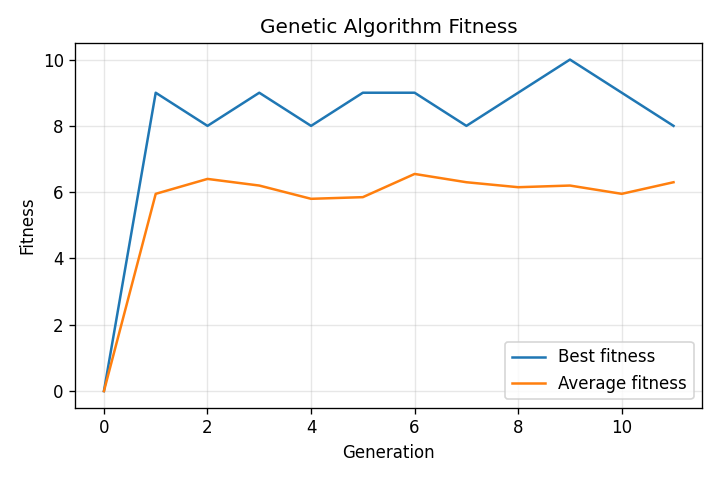
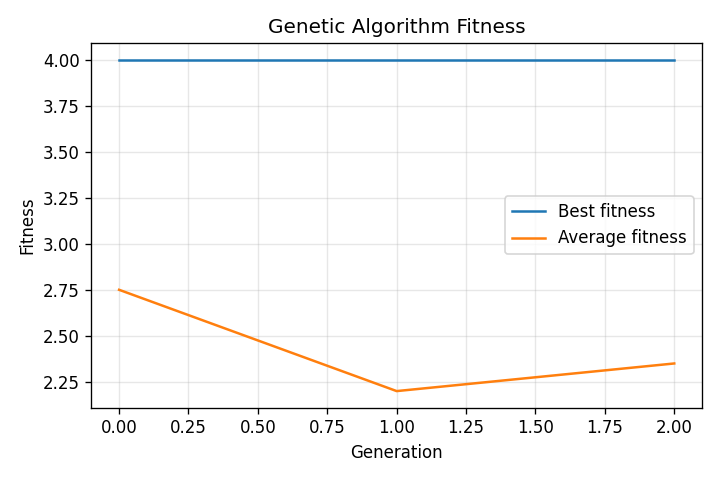
Final touches

diff --git a/src/AI/GeneticAlgo.py b/src/AI/GeneticAlgo.py
@@ -79,8 +79,8 @@ def miniMax(gameState, depth, alpha, beta, me, util_fn):
         moves.sort(key=lambda move: rootEval(
             getNextStateAdversarial(gameState, move), me, util_fn))
     
-    # Limit to top 12 moves for better performance
-    moves = moves[:12]
+    # Limit to top 10 moves for better performance (would like to do more, but it's slow to train otherwise. Oh well)
+    moves = moves[:10]
     
     # If it's my turn, we want to maximize our score
     if gameState.whoseTurn == me:
@@ -101,6 +101,7 @@ def miniMax(gameState, depth, alpha, beta, me, util_fn):
             if beta <= alpha:
                 break
         
+        # Return random move from best moves
         move = random.choice(bestMoves) if bestMoves else None
         return bestValue, move
     # If it's the enemy's turn, we want to minimize our score
@@ -154,12 +155,11 @@ class AIPlayer(Player):
         self.genePop = []
         self.nextGene = 0
         self.fitness = []
-        self.evalCounts = []
-        self.populationSize = 20
+        self.evalCounts = [] # number of games evaluated for each gene
+        self.populationSize = 50
         self.evalGames = 10
         self.populationFile = os.path.join(os.path.dirname(__file__), '..', 'vo27_krasnogo27_population.txt')
         self.featureCount = 17
-        self.mutationRate = 0.05 # 5 chance of mutation (may change we'll see) 
         # Fitness tracking/plotting
         self.fitnessBestHistory = []
         self.fitnessAvgHistory = []
@@ -301,8 +301,8 @@ class AIPlayer(Player):
     def initializePopulation(self):
         # load the population from the file if it exists
         loaded = []
-        # try to load the population from the file
-        try:
+        # try to load the population from the file, if it fails, regenerate the population
+        try: 
             if os.path.exists(self.populationFile):
                 with open(self.populationFile, "r") as f:
                     # read the file line by line
@@ -321,18 +321,22 @@ class AIPlayer(Player):
                             except Exception:
                                 ok = False
                                 break
+                        # if the values are valid and the length is correct, add to the loaded list
                         if ok and len(vals) == self.featureCount:
                             loaded.append(vals)
-            # Normalize to exact population size
+            
+            # Make sure we have the correct number of genes
             if len(loaded) < self.populationSize:
-                # fill shortfall with new random genes
+                # fill shortfall, if any, with new random genes
                 for _ in range(self.populationSize - len(loaded)):
                     loaded.append([random.uniform(-10.0, 10.0) for _ in range(self.featureCount)])
             elif len(loaded) > self.populationSize:
                 loaded = loaded[:self.populationSize]
-        except Exception:
-            # On any error, regenerate full population
+        
+        except Exception: # On any error, regenerate full population
             loaded = [[random.uniform(-10.0, 10.0) for _ in range(self.featureCount)] for __ in range(self.populationSize)]
+
+        # set the population, fitness, evaluation counts, and next gene
         self.genePop = loaded
         self.fitness = [0.0 for _ in range(self.populationSize)]
         self.evalCounts = [0 for _ in range(self.populationSize)]
@@ -344,25 +348,34 @@ class AIPlayer(Player):
         #
         # saves the population of genes to the population file
         #
+        # Return: None
+        #
     def savePopulation(self):
-        # Ensure we have exactly populationSize genes
-        if len(self.genePop) < self.populationSize:
-            for _ in range(self.populationSize - len(self.genePop)):
-                self.genePop.append([random.uniform(-10.0, 10.0) for _ in range(self.featureCount)])
-        elif len(self.genePop) > self.populationSize:
-            self.genePop = self.genePop[:self.populationSize]
-        # Ensure each gene has the right dimensionality
-        normalized = []
-        for gene in self.genePop:
-            if len(gene) != self.featureCount:
-                gene = [random.uniform(-10.0, 10.0) for _ in range(self.featureCount)]
-            normalized.append([float(g) for g in gene])
-        self.genePop = normalized
         with open(self.populationFile, 'w') as f:
             for gene in self.genePop:
                 # write features to file, 6 decimal places
                 f.write(','.join(f"{float(g):.6f}" for g in gene) + '\n')
     
+
+    ##
+    # getMutationRate
+    #
+    # Gets the mutation rate for the current generation. Simple schedule: start high, then decay to ~1% after a few generations.
+    #
+    # Return: The mutation rate
+    #
+    def getMutationRate(self):
+        start = 0.05   # 5% initial
+        floor = 0.01   # 1% floor
+        g = self.generation
+        if g <= 2:      # hold at start for first couple of generations
+            return start
+        if g >= 7:      # decay to floor after a few generations
+            return floor
+        # linear decay between start and floor
+        t = (g - 2) / float(5)
+        return start + (floor - start) * t
+
     ##
     # mate
     # 
@@ -382,11 +395,12 @@ class AIPlayer(Player):
         child2 = parent2[:cut] + parent1[cut:]
 
         # mutate the children
+        rate = self.getMutationRate()
         for i in range(len(child1)):
-            if random.random() < self.mutationRate:
+            if random.random() < rate:
                 child1[i] = random.uniform(-10, 10)
         for i in range(len(child2)):
-            if random.random() < self.mutationRate:
+            if random.random() < rate:
                 child2[i] = random.uniform(-10, 10)
         
         return child1, child2
@@ -398,6 +412,7 @@ class AIPlayer(Player):
     # generates the next generation of genes and saves them to the population file
     #
     # Return: None
+    #
     def nextGeneration(self):
         # Record and plot current generation fitness before evolving
         self.appendAndPlotFitness()
@@ -448,31 +463,35 @@ class AIPlayer(Player):
         # Reset the fitness scores
         self.fitness = [0.0 for _ in range(self.populationSize)]
 
+
+    ##
+    # appendAndPlotFitness
+    #
+    # appends the best/avg fitness to the fitness history and plots it. Makes it easier to track progress.
+    #
+    # Return: None
+    #
     def appendAndPlotFitness(self):
         # append best/avg fitness and overwrite PNG plot
-        try:
-            if not self.fitness or len(self.fitness) == 0:
-                return
-            best = max(self.fitness)
-            avg = sum(self.fitness) / float(len(self.fitness))
-            self.fitnessBestHistory.append(best)
-            self.fitnessAvgHistory.append(avg)
-            self.generation = len(self.fitnessBestHistory)
+        if not self.fitness or len(self.fitness) == 0:
+            return
+        best = max(self.fitness)
+        avg = sum(self.fitness) / float(len(self.fitness))
+        self.fitnessBestHistory.append(best)
+        self.fitnessAvgHistory.append(avg)
+        self.generation = len(self.fitnessBestHistory)
 
-            plt.figure(figsize=(6, 4), dpi=120)
-            plt.plot(self.fitnessBestHistory, label='Best fitness', color='tab:blue')
-            plt.plot(self.fitnessAvgHistory, label='Average fitness', color='tab:orange')
-            plt.xlabel('Generation')
-            plt.ylabel('Fitness')
-            plt.title('Genetic Algorithm Fitness')
-            plt.legend()
-            plt.grid(True, alpha=0.3)
-            plt.tight_layout()
-            plt.savefig(self.fitnessPlotFile)
-            plt.close()
-        except Exception:
-            # ignore plotting issues to not interrupt gameplay
-            pass
+        plt.figure(figsize=(6, 4), dpi=120)
+        plt.plot(self.fitnessBestHistory, label='Best fitness', color='tab:blue')
+        plt.plot(self.fitnessAvgHistory, label='Average fitness', color='tab:orange')
+        plt.xlabel('Generation')
+        plt.ylabel('Fitness')
+        plt.title('Genetic Algorithm Fitness')
+        plt.legend()
+        plt.grid(True, alpha=0.3)
+        plt.tight_layout()
+        plt.savefig(self.fitnessPlotFile)
+        plt.close()
 
     ##
     # utility
@@ -528,7 +547,9 @@ class AIPlayer(Player):
         def avgDist(ants, target):
             if not ants or target is None:
                 return 0.0
-            return sum(approxDist(ant.coords, target) for ant in ants) / len(ants)
+            # allow target to be an Ant/Construction (has coords) or a raw (x, y) tuple
+            tgt = target.coords if hasattr(target, 'coords') else target
+            return sum(approxDist(ant.coords, tgt) for ant in ants) / len(ants)
 
         ##
         # avgDistList
@@ -553,22 +574,29 @@ class AIPlayer(Player):
         f4 = len(mySoldiers) - len(enSoldiers)                                  # my soldier count - enemy soldier count
         f5 = len(myWorkers) - len(enWorkers)                                    # my worker count - enemy worker count
         f6 = len(myRangedSoldiers) - len(enRangedSoldiers)                      # my ranged soldier count - enemy ranged soldier count
-        f7 = avgDist(myOff, enQueen if enQueen else None)                       # average distance from my offensive ants to enemy queen
+        f7 = avgDist(myOff, enQueen.coords if enQueen else None)                # average distance from my offensive ants to enemy queen
         f8 = avgDist(enOff, myQueen.coords if myQueen else None)                # average distance from enemy offensive ants to my queen
         f9 = 1 if len(myOff) > len(enOff) else 0                                # 1 if I have more offensive ants than my opponent, 0 if I don't
         f10 = avgDist(myOff, enHill if enHill else None)                        # average distance from my offensive ants to enemy anthill
         f11 = avgDist(enOff, myHill if myHill else None)                        # average distance from enemy offensive ants to my anthill
-        f12 = 0
-        f13 = 0
+        f12 = 0 # start at 0
+        f13 = 0 # start at 0
         numCarrying = 0
         numEmpty = 0
         for w in myWorkers:
             if w.carrying:
                 numCarrying += 1
-                f12 += min(approxDist(w.coords, myHill.coords), approxDist(w.coords, myTunnels[0].coords))
+                if myHill:
+                    if myTunnels:
+                        f12 += min(approxDist(w.coords, myHill.coords), approxDist(w.coords, myTunnels[0].coords))
+                    else:
+                        f12 += approxDist(w.coords, myHill.coords)
+                # if no hill somehow, treat as zero contribution
             else:
                 numEmpty += 1
-                f13 += min(approxDist(w.coords, food.coords) for food in foods)
+                if foods:
+                    f13 += min(approxDist(w.coords, food.coords) for food in foods)
+                # if no foods, contribute nothing
         f12 = f12 / numCarrying if numCarrying else 0                                     # average distance from workers with food from tunnel or hill (whichever is closer)
         f13 = f13 / numEmpty if numEmpty else 0                                           # average distance from workers without food from food source (closest food source)
         f14 = avgDistList(myWorkers, enOff) if myWorkers and enOff else 0                 # average distance from my workers to enemy offensive ants
@@ -577,14 +605,14 @@ class AIPlayer(Player):
         f17 = avgDistList(mySoldiers, enSoldiers) if mySoldiers and enSoldiers else 0     # average distance from my soldiers to enemy soldiers
         
         # Multiply the features by the weights
-        # Clamp gene index to valid range to avoid out-of-range errors
-        if not self.genePop:
-            weights = [0.0 for _ in range(self.featureCount)]
-        else:
-            idx = self.nextGene
-            if idx >= len(self.genePop):
-                idx = len(self.genePop) - 1
-            weights = self.genePop[idx]
+        # if not self.genePop:
+        #     weights = [0.0 for _ in range(self.featureCount)]
+        # else:
+        #     idx = self.nextGene
+        #     if idx >= len(self.genePop):
+        #         idx = len(self.genePop) - 1
+        #     weights = self.genePop[idx]
+        weights = [float(w) for w in self.genePop[self.nextGene]]
         f1 = f1 * weights[0]
         f2 = f2 * weights[1]
         f3 = f3 * weights[2]

diff --git a/src/AI/geneDesign.md b/src/AI/geneDesign.md
@@ -8,12 +8,12 @@ f5 - my worker count - enemy worker count
 f6 - my ranged soldier count - enemy ranged soldier count
 f7 - average distance from my offensive ants to enemy queen
 f8 - average distance from opponents offensive ants to my queen
-f9 - if I have more offensive ants than my opponent (1 if yes, 0 if no)
-f10 - average distance from my offensive ants to enemy anthill
-f11 - average distance from enemy offensive ants to my anthill
+# f9 - if I have more offensive ants than my opponent (1 if yes, 0 if no)
+# f10 - average distance from my offensive ants to enemy anthill
+# f11 - average distance from enemy offensive ants to my anthill
 f12 - average distance from workers with food from tunnel or hill (whichever is closer)
 f13 - average distance from workers without food from food source (closest food source)
-f14 - average distance my workers are from enemy offensive ants
-f15 - average distance enemy workers are from my offensive ants
+# f14 - average distance my workers are from enemy offensive ants
+# f15 - average distance enemy workers are from my offensive ants
 f16 - Distance queens are from each other
 f17 - Distance soldier ants are from each other
